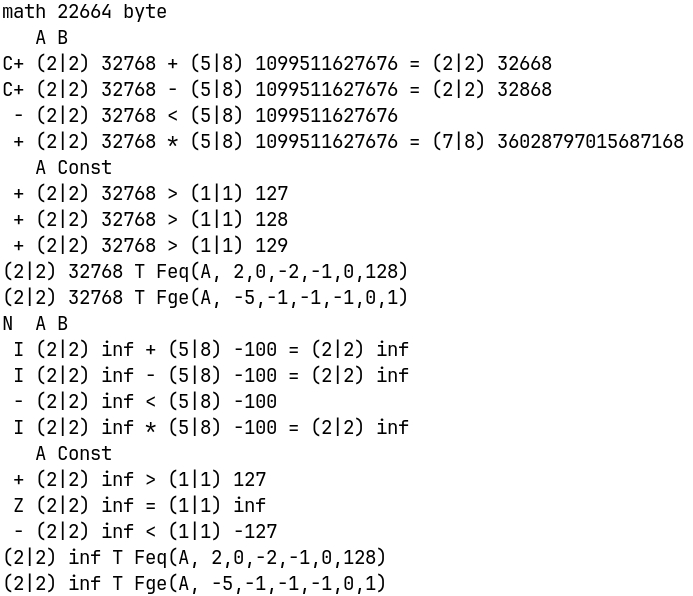
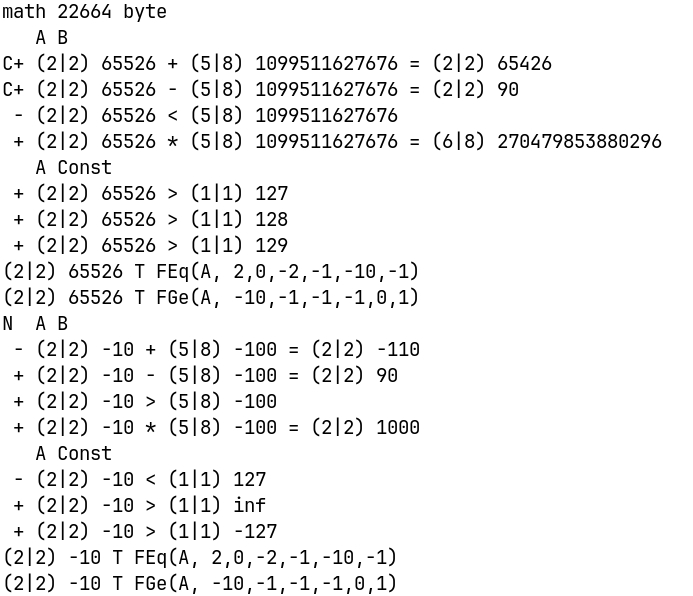
v60.1

diff --git a/math.h b/math.h
@@ -70,24 +70,24 @@ void FCSUB(an r, an a, anu l, an c);                            // r = a - (an)c
 void FCMUL(an r, an a, anu l, an c);                            // r = a * (an)c[l]{Num} | r = a * Mat.b
 void FCDIV(an r, an e, an a, anu l, an c);                      // r = a / (an)c[l]{Num} | r = a / Mat.b
 #define FAdd(r, a, ...) FCADD(r, a, Anu(__VA_ARGS__))           // r = a + Num           | r = a + Mat.b
-#define Fadd(r, ...) FCADD(r, r, Anu(__VA_ARGS__))              // r += Num              | r += Mat.b
 #define FSub(r, a, ...) FCSUB(r, a, Anu(__VA_ARGS__))           // r = a - Num           | r = a - Mat.b
-#define Fsub(r, ...) FCSUB(r, r, Anu(__VA_ARGS__))              // r -= Num              | r -= Mat.b
 #define FMul(r, a, ...) FCMUL(r, a, Anu(__VA_ARGS__))           // r = a * Num           | r = a * Mat.b
-#define Fmul(r, ...) FCMUL(r, r, Anu(__VA_ARGS__))              // r *= Num              | r *= Mat.b
 #define FDiv(r, e, a, ...) FCDIV(r, e, a, Anu(__VA_ARGS__))     // r = a / Num, e =...   | r = a / Mat.b
+#define Fadd(r, ...) FCADD(r, r, Anu(__VA_ARGS__))              // r += Num              | r += Mat.b
+#define Fsub(r, ...) FCSUB(r, r, Anu(__VA_ARGS__))              // r -= Num              | r -= Mat.b
+#define Fmul(r, ...) FCMUL(r, r, Anu(__VA_ARGS__))              // r *= Num              | r *= Mat.b
 #define Fdiv(r, e, ...) FCDIV(r, e, r, Anu(__VA_ARGS__))        // r /= Num, e =...      | r /= Mat.b
 
-void Ftst(an a, anu l, an c);                   // a?(an)c[l]{Num} Mat.CF? =:Mat.CN? <:> | a ? Mat.b
-#define FTst(x, ...) Ftst(x, Anu(__VA_ARGS__))  // x ? Num         Mat.CF? =:Mat.CN? <:> | x ? Mat.b
-#define FGe(x, ...) (FTst(x, __VA_ARGS__), (!Mat.CN | Mat.CF))  // x >= Num              | x >= Mat.b
-#define FGt(x, ...) (FTst(x, __VA_ARGS__), !(Mat.CN | Mat.CF))  // x > Num               | x > Mat.b
-#define FEq(x, ...) (FTst(x, __VA_ARGS__), (!Mat.CN && Mat.CF)) // x = Num               | x = Mat.b
-#define FLt(x, ...) (FTst(x, __VA_ARGS__), (Mat.CN && !Mat.CF)) // x < Num               | x < Mat.b
-#define FLe(x, ...) (FTst(x, __VA_ARGS__), (Mat.CN | Mat.CF))   // x <= Num              | x <= Mat.b
+void FTst(an a, anu l, an c);                   // a?(an)c[l]{Num} Mat.CF? =:Mat.CN? <:> | a ? Mat.b
+#define Ftst(x, ...) FTst(x, Anu(__VA_ARGS__))  // x ? Num         Mat.CF? =:Mat.CN? <:> | x ? Mat.b
+#define Fge(x, ...) (Ftst(x, __VA_ARGS__), (!Mat.CN | Mat.CF))  // x >= Num              | x >= Mat.b
+#define Fgt(x, ...) (Ftst(x, __VA_ARGS__), !(Mat.CN | Mat.CF))  // x > Num               | x > Mat.b
+#define Feq(x, ...) (Ftst(x, __VA_ARGS__), (!Mat.CN && Mat.CF)) // x = Num               | x = Mat.b
+#define Flt(x, ...) (Ftst(x, __VA_ARGS__), (Mat.CN && !Mat.CF)) // x < Num               | x < Mat.b
+#define Fle(x, ...) (Ftst(x, __VA_ARGS__), (Mat.CN | Mat.CF))   // x <= Num              | x <= Mat.b
 
 anu FRANGE(an a, anu l, an c);                  // a ? (an)c[l]{{[Num1,Num2]^k}{>=NumN}} | a >= Mat.b
 anu FEOV(an a, anu l, an c);                    // a = (an)c[l]{Num1;Num2;...NumN}       | a = Mat.b
-#define Fge(x, ...) FRANGE(x, Anu(__VA_ARGS__))         // x ? {[Num1;Num2]^k}{>=NumN}}  | x >= Mat.b
-#define Feq(x, ...) FEOV(x, Anu(__VA_ARGS__))                   // x = {Num1...{,NumN}}  | x = Mat.b
+#define FGe(x, ...) FRANGE(x, Anu(__VA_ARGS__))         // x ? {[Num1;Num2]^k}{>=NumN}}  | x >= Mat.b
+#define FEq(x, ...) FEOV(x, Anu(__VA_ARGS__))                   // x = {Num1...{,NumN}}  | x = Mat.b
 #endif

diff --git a/main.c b/main.c
@@ -23,16 +23,16 @@ void Num(anu s, an a) { anu ns,t[m]; if (s > 8) printf(" %d|? ", s + 1);
       else { if (ns > 3) printf("%lu ", *(uint64_t*)a); else if (ns > 1) printf("%u ", *(uint32_t*)a);
         else if (ns) printf("%u ", *(uint16_t*)a); else printf("%u ", *(uint8_t*)a); } } } }
 void Show(char s) { Flong(Mat.lb,la); Mat.C = 0; if (s == '+') FAdd(Mat.R, Mat.A); else if (s == '-') FSub(Mat.R, Mat.A);
-  else if (s == '*') FMul(Mat.R, Mat.A); else if (s == '/') FDiv(Mat.R, Mat.A, Mat.E); else if (s == '?') FTst(Mat.A);
-  else { FTst(Mat.A, 127); } if (s == '?' || s == 'c') printf(" %c ", Mat.CF ? 'Z':Mat.CN ? '-':'+');
+  else if (s == '*') FMul(Mat.R, Mat.A); else if (s == '/') FDiv(Mat.R, Mat.A, Mat.E); else if (s == '?') Ftst(Mat.A);
+  else { Ftst(Mat.A, 127); } if (s == '?' || s == 'c') printf(" %c ", Mat.CF ? 'Z':Mat.CN ? '-':'+');
   else { printf("%c%c ", Mat.C ? 'C':' ', Mat.F ? Mat.N ? 'I':'Z':Mat.N ? '-':'+'); } Num(la, Mat.A);
   if (s == '?' || s == 'c') printf("%c ", Mat.CF ? '=':Mat.CN ? '<':'>'); else {
     if (s == 'c') printf("? "); else printf("%c ", s); } Num(Mat.lb, Mat.b); if (s < '?') { printf("= "); Num(Mat.l, Mat.R); }
   if (s == '/') { printf("  %c ", Mat.Fe ? (Mat.Ne ? 'I':'Z') : (Mat.Ne ? '-':'+')); Num(Mat.le, Mat.E); } printf("\n"); }
 void Test(void) { Faddr((As)Mat.B); Flong(lb,la); anu t,i = 2; printf("%c%c A B\n", Mat.Nim ? 'N':' ', Mat.V ? 'V':' '); Show('+');
   Show('-'); Show('?'); Show('*'); /*Show('/');*/ printf("   A Const\n"); Show('c'); while(i--) { t = *Mat.b; *Mat.b = ++t; Show('?'); }
-  Num(la, Mat.A); printf("%c Feq(A, 2,0,-2,-1,0,128)\n", Feq(Mat.A, 2,0,-2,-1,0,128) ? 'T':'F');
-  Num(la, Mat.A); printf("%c Fge(A, -5,-1,-1,-1,0,1)\n", Fge(Mat.A, -5,-1,-1,-1,0,1) ? 'T':'F');}
+  Num(la, Mat.A); printf("%c FEq(A, 2,0,-2,-1,-10,-1)\n", FEq(Mat.A, 2,0,-2,-1,-10,-1) ? 'T':'F');
+  Num(la, Mat.A); printf("%c FGe(A, -10,-1,-1,-1,0,1)\n", FGe(Mat.A, -10,-1,-1,-1,0,1) ? 'T':'F');}
 
-int main(void) { anu a[m],b[m],e[m],r[m+m]; Faddr((As)b, (As)a, (As)r, (As)e); Fini(NoSign,MatV); la = Fvbe(Mat.A, 128,0);
+int main(void) { anu a[m],b[m],e[m],r[m+m]; Faddr((As)b, (As)a, (As)r, (As)e); Fini(NoSign,MatV); la = Fvbe(Mat.A, -1,-10);
   lb = Fvle(Mat.B, -100,255,255,255,255); Test(); Fset(Sign,MatV); la = Fmov(la, Mat.A); lb = Fmov(lb, Mat.B); Test(); return 0; }

diff --git a/math.c b/math.c
@@ -166,7 +166,7 @@ void FCMUL(an r, an a, anu l, an c) { if (l--) return FMUL(r, a, l, c);
 void FCDIV(an r, an e, an a, anu l, an c) { if (l--) return FDIV(r, e, a, l, c);
   return FDIV(r, e, a, Mat.lb, Mat.b); }
 
-void Ftst(an a, anu l, an c) { if (l--) return FTST(a, l, c); return FTST(a, Mat.lb, Mat.b); }
+void FTst(an a, anu l, an c) { if (l--) return FTST(a, l, c); return FTST(a, Mat.lb, Mat.b); }
 anu FRANGE(an a, anu l, an c) { if (l--) { Mat.e = c; Mat.y = 0;
     while(!Mat.y && l >= Mat.l) { FTST(a, Mat.l, Mat.e); Mat.y = !Mat.CN; Mat.e += 1 + Mat.l;
       l -= Mat.l; if (!l--) { break; } FTST(a, Mat.l, Mat.e); Mat.y = Mat.y && (Mat.CN | Mat.CF);

diff --git a/README.md b/README.md
@@ -25,7 +25,7 @@
 P.s.: Блокировку убрали как только добавил сообщение о ней на главную страницу, длилась минут 20, как я заметил, и принял меры, чтобы сообщить об этом Вам. Это сообщение останется (20.09.2026 ~16.00 +7 UTF) как память, так что буду стараться вопреки невостребованности в России по данной области дабы остальной народ мог этим воспользоваться. Проанализируйте события с момента, как я вернулся в эту сферу (конец января 2026 выложен Products, готовый полностью, затем занялся Fresh в начале февраля 2026), всё это время обновлялся код и было забавно видеть на open.net новости - даже компании серьёзные - их как озарило - так что у меня нет желания и времени следить за соблюдением GPLv3 из России, если заметите нарушение лицензии, то гарантируется взаимовыгодное сотрудничество.
 
 <div align="center">
-  <h1>Результат запуска v60.0</h1>
+  <h1>Результат запуска v60.1</h1>
   
   <picture>
     <source media="(prefers-color-scheme: dark)" srcset="Plus/psb.jpeg">
